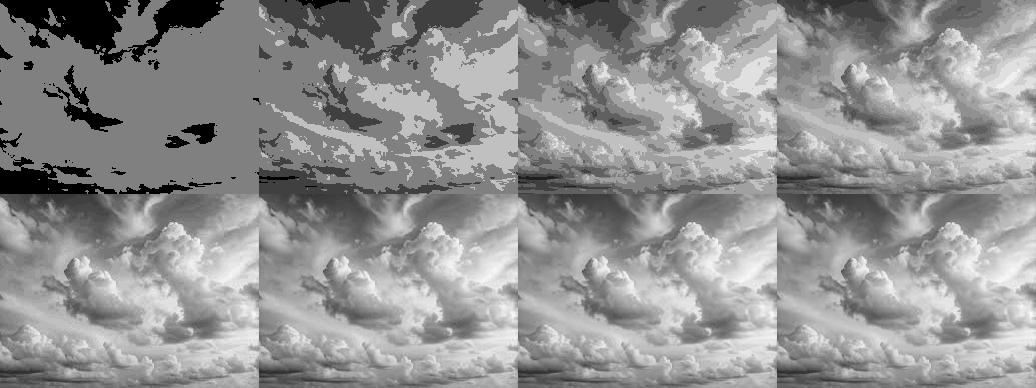
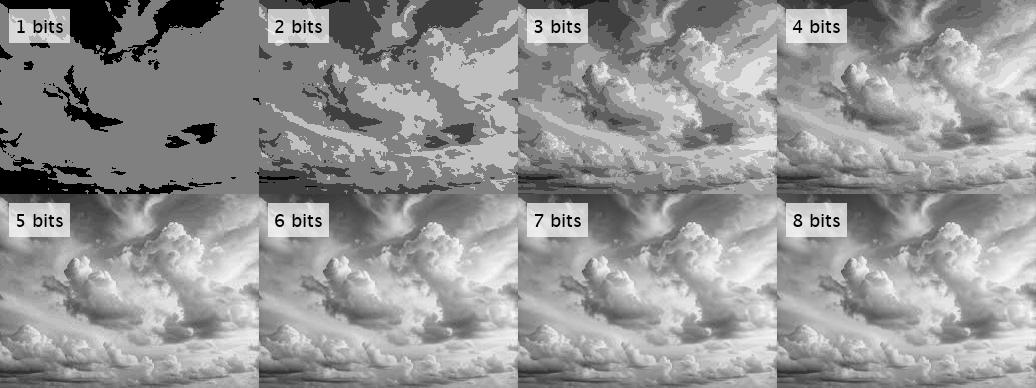
feat: image set title

diff --git a/exp1/exp1_ex2.m b/exp1/exp1_ex2.m
@@ -9,20 +9,22 @@ original_crop = imresize(photo, [256 256]);
 % 定义缩放比例数组
 scales = 1./(2.^(1:5));
 
-% 定义变量名数组
+% 定义变量名数组和标题数组
 var_names = {'photo_1_2', 'photo_1_4', 'photo_1_8', 'photo_1_16', 'photo_1_32'};
+titles = {'1/2', '1/4', '1/8', '1/16', '1/32'};
 
 % 函数：缩放并保留原始像素
 function resized = scale_and_restore(img, scale)
-    % 使用最近邻插值进行下采样，保持像素值不变
     small = imresize(img, scale, 'nearest');
-    % 使用最近邻插值进行上采样，避免插值平滑
     resized = imresize(small, [256 256], 'nearest');
 end
 
 % 使用循环处理所有缩放
 for i = 1:length(scales)
-    assignin('base', var_names{i}, scale_and_restore(original_crop, scales(i)));
+    img = scale_and_restore(original_crop, scales(i));
+    % 添加标题文字
+    img = insertText(img, [10 10], titles{i}, 'FontSize', 18, 'BoxColor', 'white', 'BoxOpacity', 0.7);
+    assignin('base', var_names{i}, img);
 end
 
 % 拼成一张图

diff --git a/exp1/exp1_ex3.m b/exp1/exp1_ex3.m
@@ -1,6 +1,6 @@
 % 3.实现该256x256的图像块的灰度分辨率图(1-8 bits)，并存储为jpg图片;
 
-photo_path = 'exp1/photo.jpg';
+photo_path = 'exp1/photo1.jpg';
 photo = imread(photo_path);
 
 % 灰度化
@@ -17,7 +17,11 @@ var_names = {'photo_1_bit', 'photo_2_bit', 'photo_3_bit', 'photo_4_bit', 'photo_
 
 % 使用循环处理所有灰度分辨率
 for i = 1:8
-    assignin('base', var_names{i}, gray_resolution(photo, i));
+    img = gray_resolution(photo, i);
+    % 添加标题文字
+    img = insertText(img, [10 10], sprintf('%d bits', i), 'FontSize', 18, 'BoxColor', 'white', 'BoxOpacity', 0.7);
+    
+    assignin('base', var_names{i}, img);
 end
 
 % 拼成一张图
